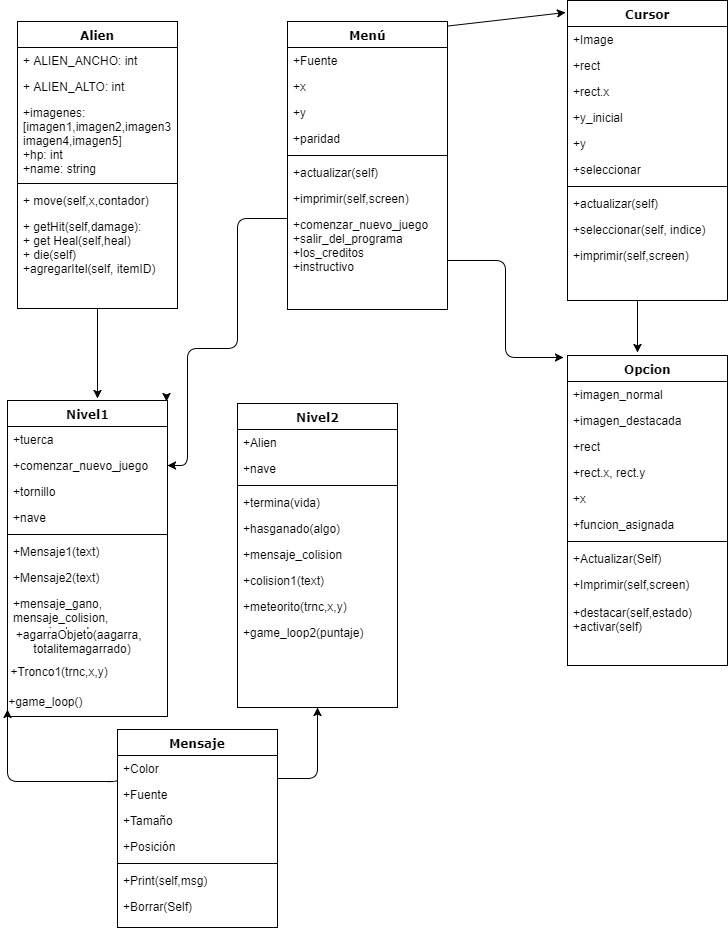
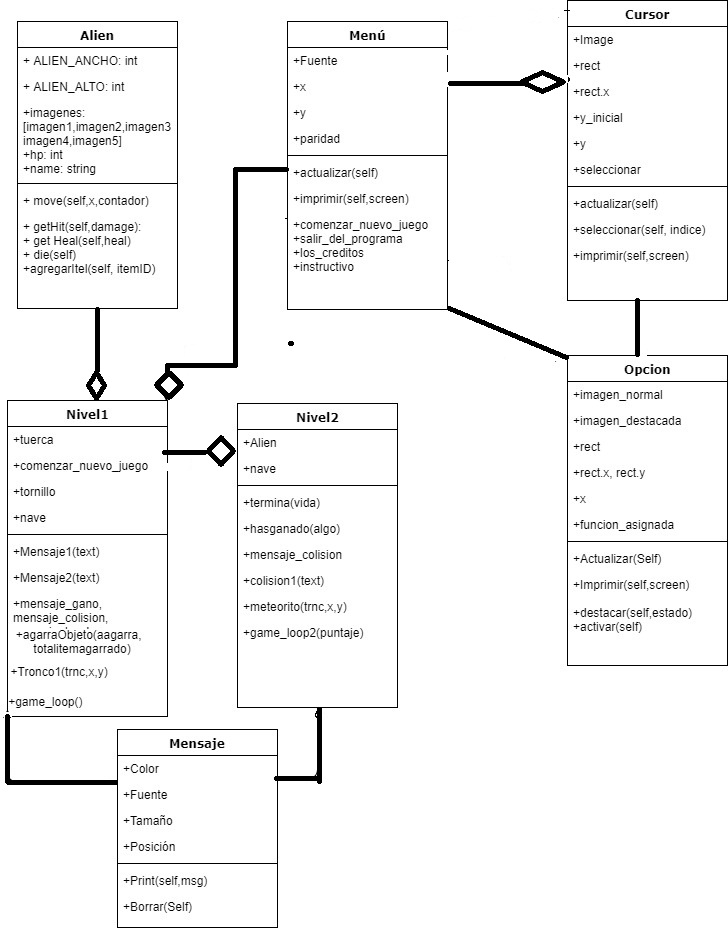
mejorando el diagrama de clases

diff --git a/README.md b/README.md
@@ -134,3 +134,7 @@ Martes 24/10-------------20:52hs
 Modificación de varios aspectos del juego. Imagenes, movimientos, casos menores.
 By: MICAELAº
 ******************************************************
+Martes 31/10-------------18:44hs
+arreglando el diagrama de clases
+By: Alan
+******************************************************
